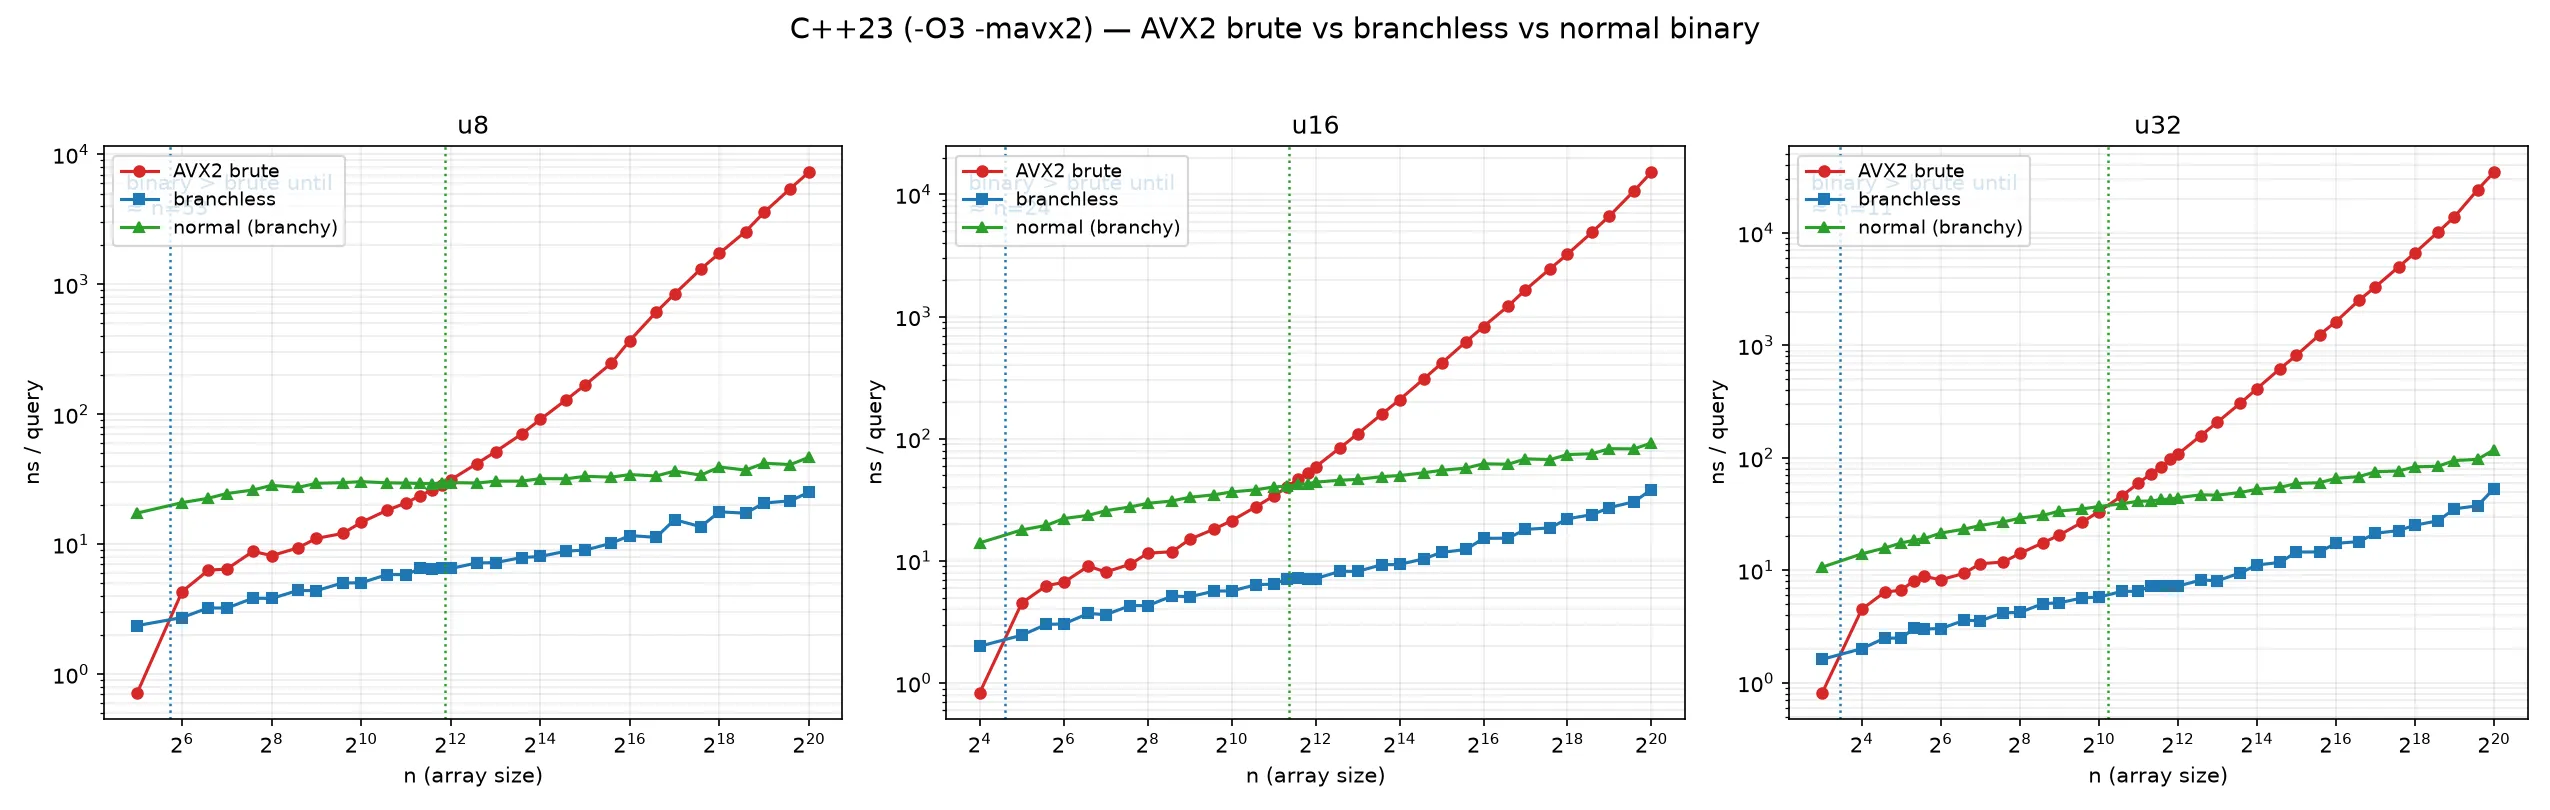
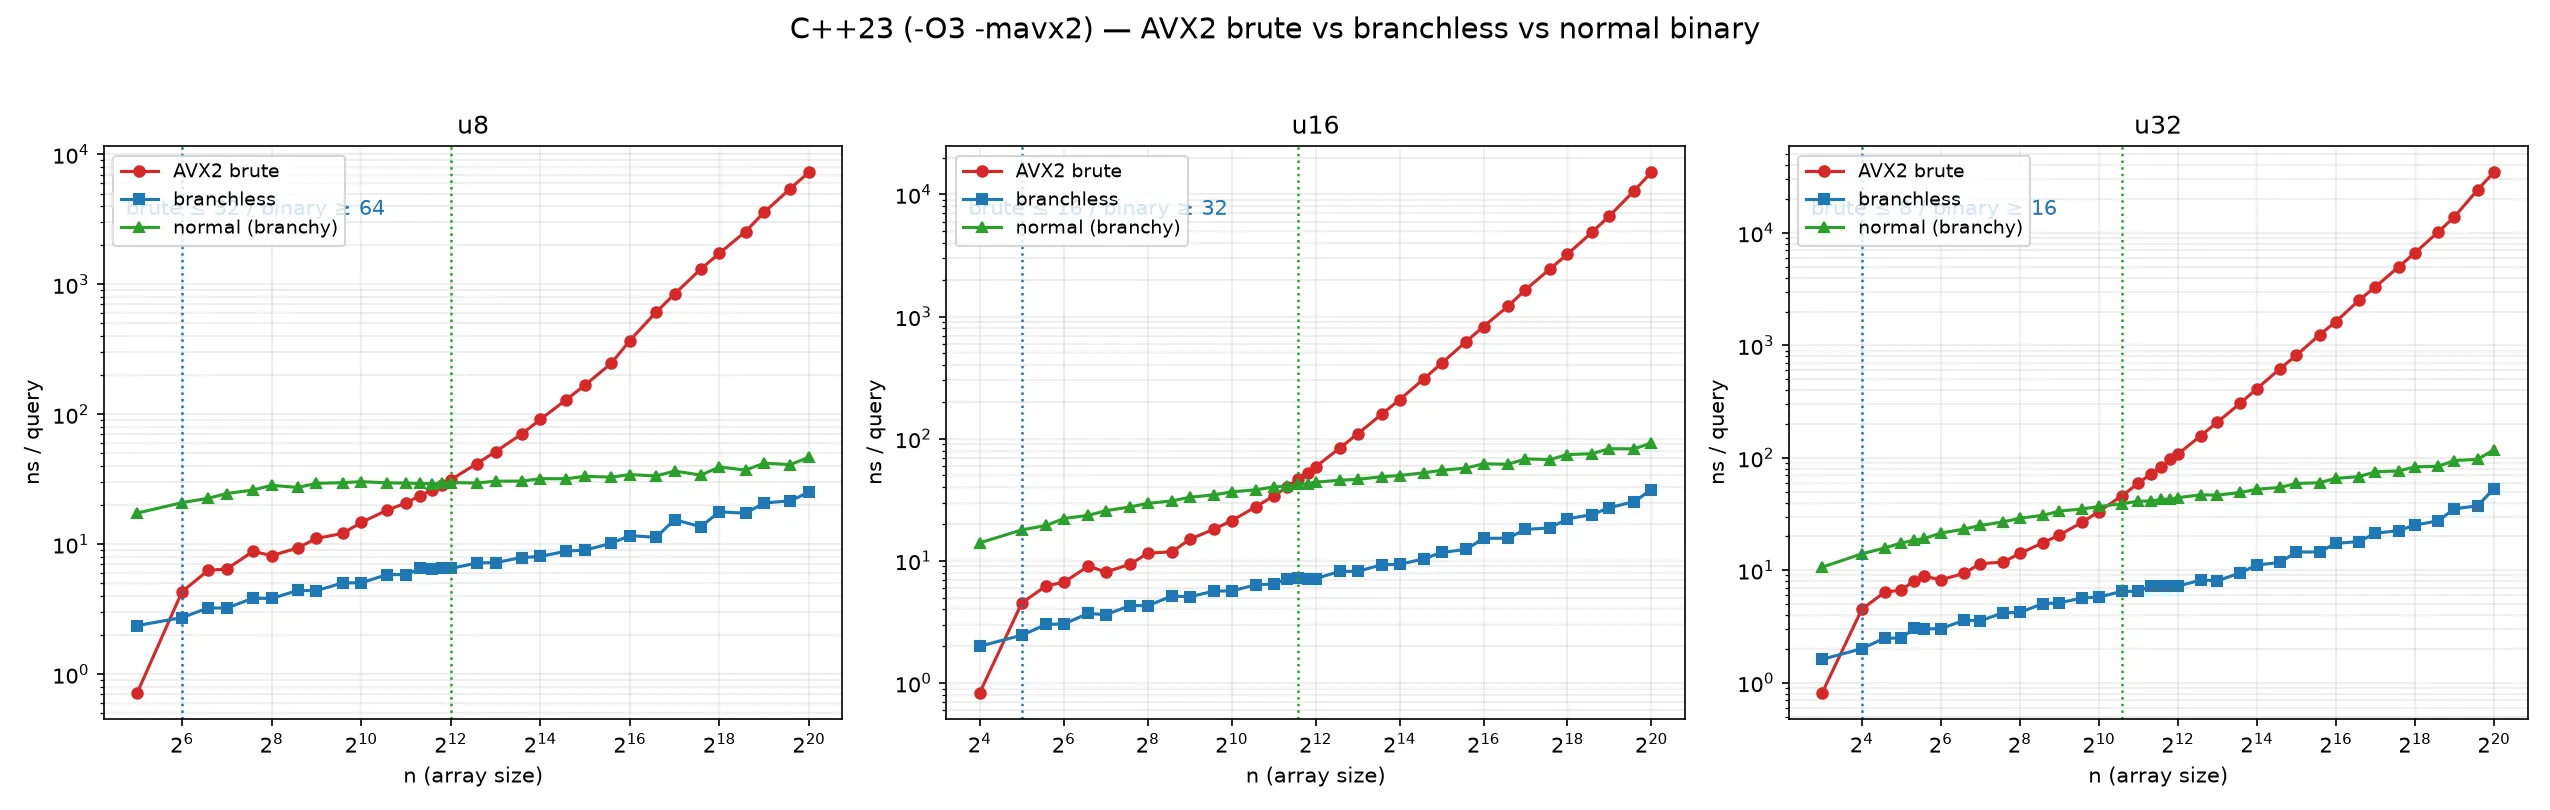
Report only vector-aligned boundary n, no interpolation

Changed region(s): [[0.3718, 0.216, 0.4957, 0.2778], [0.7125, 0.216, 0.8055, 0.2778], [0.062, 0.216, 0.1549, 0.2778]]

diff --git a/plot.py b/plot.py
@@ -1,35 +1,19 @@
 #!/usr/bin/env python3
-import math
-
 import matplotlib
 matplotlib.use("Agg")
 import matplotlib.pyplot as plt
 import pandas as pd
 
 
-def log_cross(x1, y1a, y1b, x2, y2a, y2b):
-    lx1, lx2 = math.log10(x1), math.log10(x2)
-    la1, lb1 = math.log10(y1a), math.log10(y1b)
-    la2, lb2 = math.log10(y2a), math.log10(y2b)
-    da, db = la2 - la1, lb2 - lb1
-    denom = da - db
-    if denom == 0:
-        return None
-    t = (lb1 - la1) / denom
-    if not (0.0 <= t <= 1.0):
-        return None
-    return 10.0 ** (lx1 + t * (lx2 - lx1))
-
-
-def crossover(df, col_brute, col_bin):
-    xs = df["n"].to_numpy()
+def aligned_boundary(df, col_brute, col_bin):
+    """Return (last aligned n where brute wins, first aligned n where binary wins)."""
+    xs = df["n"].to_numpy().astype(int)
     a = df[col_brute].to_numpy()
     b = df[col_bin].to_numpy()
     faster = (a < b).astype(int)  # 1: brute faster
     for i in range(len(xs) - 1):
         if faster[i] == 1 and faster[i + 1] == 0:
-            if i + 2 < len(xs) and faster[i + 2] == 0:
-                return log_cross(xs[i], a[i], b[i], xs[i + 1], a[i + 1], b[i + 1])
+            return int(xs[i]), int(xs[i + 1])
     return None
 
 
@@ -50,8 +34,8 @@ def plot_source(csv_path, out_prefix, title_label):
         for col, (label, marker, c) in markers.items():
             ax.plot(sub["n"], sub[col], marker=marker, markersize=5,
                     linewidth=1.5, color=c, label=label)
-        cb = crossover(sub, "avx2_brute_ns", "branchless_ns")
-        cn = crossover(sub, "avx2_brute_ns", "branchy_ns")
+        cb = aligned_boundary(sub, "avx2_brute_ns", "branchless_ns")
+        cn = aligned_boundary(sub, "avx2_brute_ns", "branchy_ns")
         ax.set_xscale("log", base=2)
         ax.set_yscale("log")
         ax.set_title(t)
@@ -59,17 +43,17 @@ def plot_source(csv_path, out_prefix, title_label):
         ax.set_ylabel("ns / query")
         ax.grid(True, which="both", alpha=0.25)
         if cb is not None:
-            ax.axvline(cb, color="#1f77b4", ls=":", lw=1.2)
+            ax.axvline(cb[1], color="#1f77b4", ls=":", lw=1.2)
         if cn is not None:
-            ax.axvline(cn, color="#2ca02c", ls=":", lw=1.2)
+            ax.axvline(cn[1], color="#2ca02c", ls=":", lw=1.2)
         ax.annotate(
-            f"binary > brute until\n≈ n={cb:.0f}" if cb else "no crossover",
-            xy=(cb, ax.get_ylim()[0]) if cb else (0, 0),
+            f"brute ≤ {cb[0]} / binary ≥ {cb[1]}" if cb else "no crossover",
+            xy=(cb[1], ax.get_ylim()[0]) if cb else (0, 0),
             xytext=(0.03, 0.88), textcoords="axes fraction",
             color="#1f77b4", fontsize=10,
         )
         ax.annotate(
-            f"normal > brute until\n≈ n={cn:.0f}" if cn else "no crossover",
+            f"brute ≤ {cn[0]} / normal ≥ {cn[1]}" if cn else "no crossover",
             xy=(0.03, 0.72), xytext=(0.03, 0.72), textcoords="axes fraction",
             color="#2ca02c", fontsize=10,
         )
@@ -100,13 +84,13 @@ def plot_source(csv_path, out_prefix, title_label):
     fig2.savefig(f"{out_prefix}_ratio.webp", dpi=150)
     plt.close(fig2)
 
-    print(f"\n{title_label} approximate crossover (binary search becomes faster):")
+    print(f"\n{title_label} aligned boundary (brute last win / binary first win):")
     for t in ("u8", "u16", "u32"):
         sub = df[df["type"] == t]
-        cb = crossover(sub, "avx2_brute_ns", "branchless_ns")
-        cn = crossover(sub, "avx2_brute_ns", "branchy_ns")
+        cb = aligned_boundary(sub, "avx2_brute_ns", "branchless_ns")
+        cn = aligned_boundary(sub, "avx2_brute_ns", "branchy_ns")
         print(
-            f"  {t}: vs branchless ≈ {cb:.0f}   vs normal ≈ {cn:.0f}"
+            f"  {t}: branchless brute≤{cb[0]} bin≥{cb[1]}   normal brute≤{cn[0]} bin≥{cn[1]}"
             if cb is not None and cn is not None
             else f"  {t}: vs branchless {cb}   vs normal {cn}"
         )

diff --git a/README.md b/README.md
@@ -26,16 +26,17 @@ make plot              # 生成 4 张图 + 输出临界点
 ## 本机结果（i9-13950HX，排序唯一值，随机命中查询）
 
 “临界点 n”指：n 小于该值时 AVX2 brute 更快，n 大于该值时二分更快。
+下表中 `a / b` = 最后一个 brute 赢的对齐 n / 第一个二分赢的对齐 n。
 
 | 类型 | vs branchless（C++23） | vs normal（C++23） | vs branchless（Rust） | vs normal（Rust） |
 | --- | ---: | ---: | ---: | ---: |
-| u8 | ≈ 53 | ≈ 3750 | ≈ 45 | ≈ 3910 |
-| u16 | ≈ 24 | ≈ 2640 | ≈ 20 | ≈ 3220 |
-| u32 | ≈ 11 | ≈ 1200 | ≈ 9 | ≈ 1270 |
+| u8 | 32 / 64 | 3584 / 4096 | 32 / 64 | 3584 / 4096 |
+| u16 | 16 / 32 | 2560 / 3072 | 16 / 32 | 3072 / 3584 |
+| u32 | 8 / 16 | 1024 / 1536 | 8 / 16 | 1024 / 1536 |
 
 直观结论：
 
-- u8 对无分支二分大约在 32~64 之间反超；对普通二分能压到约 n≈3750。
+- u8 对无分支二分：n=32 仍赢、n=64 二分赢；对普通二分：n=3584 仍赢、n=4096 二分赢。
 - u16/u32 的“对 branchless 临界点”大约就是 1~1.5 个 AVX2 vector 能覆盖的长度（16/8 个元素量级）。
 - 普通二分因为分支预测失败，在缓存内小数组上非常吃亏；AVX2 brute 能压到几千个元素（u16/u32）甚至整个 u8 值域。
 
